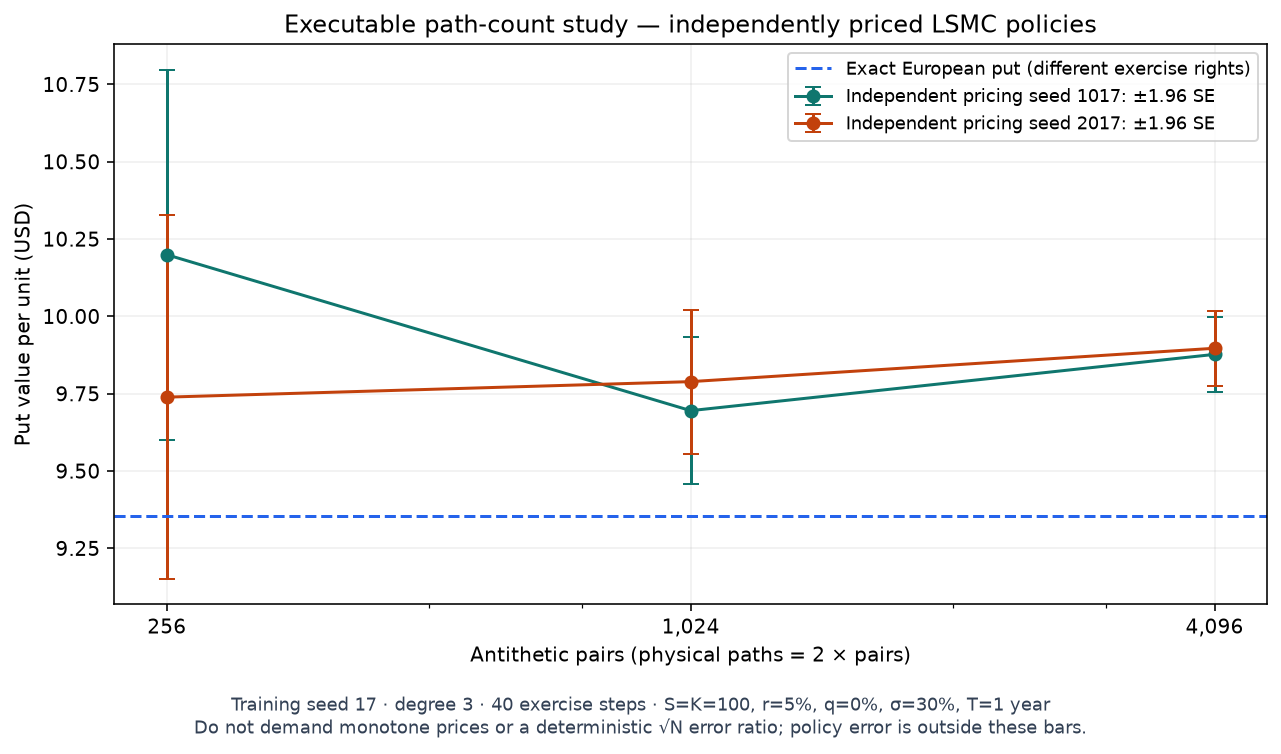
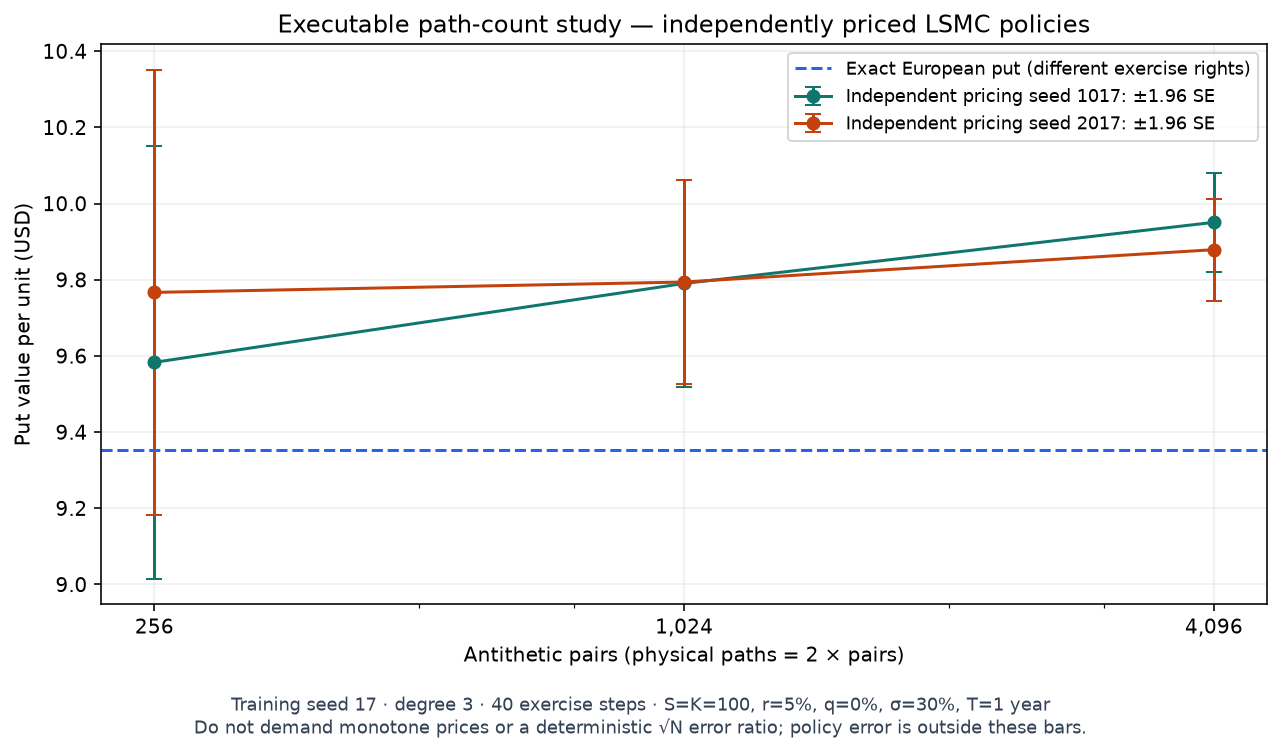
notebooks: verify capstone losses across credit and exposure knots

diff --git a/finstack-quant-py/examples/notebooks/09_reporting/analyst-pm-report.html b/finstack-quant-py/examples/notebooks/09_reporting/analyst-pm-report.html
@@ -58,141 +58,7 @@
 .fq-ts svg .fq-mk { fill:#7c2230; stroke:#fff; stroke-width:1; pointer-events:none; }
 .fq-ts .fq-scroll { max-height:240px; overflow:auto; border:1px solid #e4e1d8; border-radius:4px; }
 .fq-ts .fq-scroll table.dd th { position:sticky; top:0; background:#f3f1ea; }
-</style></head><body style="margin:0;padding:24px;background:#e8e9ec;"><div class="fq-ts"><div class="head"><div><div class="eyebrow"></div><div class="title">Analyst common book</div><div class="subtitle">Teaching fixture; no CLO sleeve in this common book</div></div><div class="meta">Generated 15 Jan 2025</div></div><div class="kpis"><div class="kpi"><div class="lbl">Native common-book PV</div><div class="val ">5,652,697.53 USD</div></div><div class="kpi"><div class="lbl">Positions</div><div class="val ">8</div></div></div><div class="secttl">Decision and conditions</div><p>Hold pending confirmation of the private loan's executable liquidity. Size any hedge from qualified curve and credit sensitivities; positive bump P&amp;L sets the sign.</p><div class="secttl">Holdings and currency reconciliation</div><table border="1" class="dataframe">
-  <thead>
-    <tr style="text-align: right;">
-      <th>position</th>
-      <th>currency</th>
-      <th>native_amount</th>
-      <th>base_usd</th>
-    </tr>
-  </thead>
-  <tbody>
-    <tr>
-      <td>USD-CORP</td>
-      <td>USD</td>
-      <td>2086985.5344727365</td>
-      <td>2086985.5344727365</td>
-    </tr>
-    <tr>
-      <td>EUR-GOVT</td>
-      <td>EUR</td>
-      <td>1498487.425661905</td>
-      <td>1618366.4197148574</td>
-    </tr>
-    <tr>
-      <td>USD-CASH</td>
-      <td>USD</td>
-      <td>498575.3258739206</td>
-      <td>498575.3258739206</td>
-    </tr>
-    <tr>
-      <td>EUR-CASH</td>
-      <td>EUR</td>
-      <td>250009.9438097844</td>
-      <td>270010.7393145672</td>
-    </tr>
-    <tr>
-      <td>USD-PAYER-IRS</td>
-      <td>USD</td>
-      <td>18768.848700303643</td>
-      <td>18768.848700303643</td>
-    </tr>
-    <tr>
-      <td>SPX-CALL</td>
-      <td>USD</td>
-      <td>47532.657464512435</td>
-      <td>47532.657464512435</td>
-    </tr>
-    <tr>
-      <td>ACME-CDS</td>
-      <td>USD</td>
-      <td>14687.355060947135</td>
-      <td>14687.355060947135</td>
-    </tr>
-    <tr>
-      <td>BORROWER-TL</td>
-      <td>USD</td>
-      <td>1097770.6529690907</td>
-      <td>1097770.6529690907</td>
-    </tr>
-  </tbody>
-</table><div class="secttl">Credit risk by qualified key</div><table border="1" class="dataframe">
-  <thead>
-    <tr style="text-align: right;">
-      <th>key</th>
-      <th>USD per bp</th>
-    </tr>
-  </thead>
-  <tbody>
-    <tr>
-      <td>cs01::USD-CORP</td>
-      <td>{'metric_id': 'cs01::USD-CORP', 'total': -909.1626600960735, 'by_entity': {'FUND': -909.1626600960735}}</td>
-    </tr>
-    <tr>
-      <td>cs01::EUR-GOVT</td>
-      <td>{'metric_id': 'cs01::EUR-GOVT', 'total': -740.9006803769153, 'by_entity': {'FUND': -740.9006803769153}}</td>
-    </tr>
-    <tr>
-      <td>cs01::ACME-HZD</td>
-      <td>{'metric_id': 'cs01::ACME-HZD', 'total': 418.7901321114041, 'by_entity': {'FUND': 418.7901321114041}}</td>
-    </tr>
-    <tr>
-      <td>cs01::BORROWER-TL</td>
-      <td>{'metric_id': 'cs01::BORROWER-TL', 'total': -378.6948503477033, 'by_entity': {'FUND': -378.6948503477033}}</td>
-    </tr>
-  </tbody>
-</table><div class="secttl">Liquidity evidence</div><table border="1" class="dataframe">
-  <thead>
-    <tr style="text-align: right;">
-      <th>position_id</th>
-      <th>source</th>
-      <th>daily_capacity</th>
-    </tr>
-  </thead>
-  <tbody>
-    <tr>
-      <td>USD-CORP</td>
-      <td>synthetic OTC</td>
-      <td>0.10</td>
-    </tr>
-    <tr>
-      <td>EUR-GOVT</td>
-      <td>synthetic OTC</td>
-      <td>1.00</td>
-    </tr>
-    <tr>
-      <td>USD-CASH</td>
-      <td>cash deposit; contractual maturity</td>
-      <td>NaN</td>
-    </tr>
-    <tr>
-      <td>EUR-CASH</td>
-      <td>cash deposit; contractual maturity</td>
-      <td>NaN</td>
-    </tr>
-    <tr>
-      <td>USD-PAYER-IRS</td>
-      <td>synthetic OTC</td>
-      <td>0.25</td>
-    </tr>
-    <tr>
-      <td>SPX-CALL</td>
-      <td>synthetic option position capacity</td>
-      <td>0.50</td>
-    </tr>
-    <tr>
-      <td>ACME-CDS</td>
-      <td>synthetic OTC</td>
-      <td>0.20</td>
-    </tr>
-    <tr>
-      <td>BORROWER-TL</td>
-      <td>unavailable capacity; no quote</td>
-      <td>NaN</td>
-    </tr>
-  </tbody>
-</table><div class="foot"><span></span><span>finstack-quant</span></div><div class="fq-tip" aria-hidden="true"></div></div><script>
+</style></head><body style="margin:0;padding:24px;background:#e8e9ec;"><div class="fq-ts"><div class="head"><div><div class="eyebrow"></div><div class="title">Analyst common book</div><div class="subtitle">Teaching fixture; no CLO sleeve in this common book</div></div><div class="meta">Generated 15 Jan 2025</div></div><div class="kpis"><div class="kpi"><div class="lbl">Native common-book PV</div><div class="val ">5,652,697.53 USD</div></div><div class="kpi"><div class="lbl">Positions</div><div class="val ">8</div></div></div><div class="secttl">Decision and conditions</div><p>Hold pending confirmation of the private loan's executable liquidity. Size any hedge from qualified curve and credit sensitivities; positive bump P&amp;L sets the sign.</p><div class="secttl">Holdings and currency reconciliation</div><table class="dd"><thead><tr><th>position</th><th>currency</th><th>native_amount</th><th>base_usd</th></tr></thead><tbody><tr><td class="">USD-CORP</td><td class="">USD</td><td class="">2086985.5344727365</td><td class="">2086985.5344727365</td></tr><tr><td class="">EUR-GOVT</td><td class="">EUR</td><td class="">1498487.425661905</td><td class="">1618366.4197148574</td></tr><tr><td class="">USD-CASH</td><td class="">USD</td><td class="">498575.3258739206</td><td class="">498575.3258739206</td></tr><tr><td class="">EUR-CASH</td><td class="">EUR</td><td class="">250009.9438097844</td><td class="">270010.7393145672</td></tr><tr><td class="">USD-PAYER-IRS</td><td class="">USD</td><td class="">18768.848700303643</td><td class="">18768.848700303643</td></tr><tr><td class="">SPX-CALL</td><td class="">USD</td><td class="">47532.657464512435</td><td class="">47532.657464512435</td></tr><tr><td class="">ACME-CDS</td><td class="">USD</td><td class="">14687.355060947135</td><td class="">14687.355060947135</td></tr><tr><td class="">BORROWER-TL</td><td class="">USD</td><td class="">1097770.6529690907</td><td class="">1097770.6529690907</td></tr></tbody></table><div class="secttl">Credit risk by qualified key</div><table class="dd"><thead><tr><th>key</th><th>USD per bp</th></tr></thead><tbody><tr><td class="">cs01::USD-CORP</td><td class="">{&#x27;metric_id&#x27;: &#x27;cs01::USD-CORP&#x27;, &#x27;total&#x27;: -909.1626600960735, &#x27;by_entity&#x27;: {&#x27;FUND&#x27;: -909.1626600960735}}</td></tr><tr><td class="">cs01::EUR-GOVT</td><td class="">{&#x27;metric_id&#x27;: &#x27;cs01::EUR-GOVT&#x27;, &#x27;total&#x27;: -740.9006803769153, &#x27;by_entity&#x27;: {&#x27;FUND&#x27;: -740.9006803769153}}</td></tr><tr><td class="">cs01::ACME-HZD</td><td class="">{&#x27;metric_id&#x27;: &#x27;cs01::ACME-HZD&#x27;, &#x27;total&#x27;: 418.7901321114041, &#x27;by_entity&#x27;: {&#x27;FUND&#x27;: 418.7901321114041}}</td></tr><tr><td class="">cs01::BORROWER-TL</td><td class="">{&#x27;metric_id&#x27;: &#x27;cs01::BORROWER-TL&#x27;, &#x27;total&#x27;: -378.6948503477033, &#x27;by_entity&#x27;: {&#x27;FUND&#x27;: -378.6948503477033}}</td></tr></tbody></table><div class="secttl">Liquidity evidence</div><table class="dd"><thead><tr><th>position_id</th><th>source</th><th>daily_capacity</th></tr></thead><tbody><tr><td class="">USD-CORP</td><td class="">synthetic OTC</td><td class="">0.1</td></tr><tr><td class="">EUR-GOVT</td><td class="">synthetic OTC</td><td class="">1.0</td></tr><tr><td class="">USD-CASH</td><td class="">cash deposit; contractual maturity</td><td class="">nan</td></tr><tr><td class="">EUR-CASH</td><td class="">cash deposit; contractual maturity</td><td class="">nan</td></tr><tr><td class="">USD-PAYER-IRS</td><td class="">synthetic OTC</td><td class="">0.25</td></tr><tr><td class="">SPX-CALL</td><td class="">synthetic option position capacity</td><td class="">0.5</td></tr><tr><td class="">ACME-CDS</td><td class="">synthetic OTC</td><td class="">0.2</td></tr><tr><td class="">BORROWER-TL</td><td class="">unavailable capacity; no quote</td><td class="">nan</td></tr></tbody></table><div class="foot"><span></span><span>finstack-quant</span></div><div class="fq-tip" aria-hidden="true"></div></div><script>
 (function(){
   function init(){
     document.querySelectorAll('.fq-ts svg .fq-hb').forEach(function(band){

diff --git a/finstack-quant-py/examples/notebooks/08_capstone/credit_capstone_tearsheet.html b/finstack-quant-py/examples/notebooks/08_capstone/credit_capstone_tearsheet.html
@@ -2093,8 +2093,8 @@
       <td>0.55</td>
       <td>1000000.0</td>
       <td>0.075</td>
-      <td>43116.580198</td>
-      <td>43116.580198</td>
+      <td>42831.925897</td>
+      <td>42831.925897</td>
     </tr>
   </tbody>
 </table><div class="secttl">Dated wealth</div><table border="1" class="dataframe">

diff --git a/finstack-quant-py/examples/notebooks/08_capstone/vol_capstone_tearsheet.html b/finstack-quant-py/examples/notebooks/08_capstone/vol_capstone_tearsheet.html
@@ -1697,8 +1697,8 @@
       <td>0.55</td>
       <td>1000000.0</td>
       <td>0.075</td>
-      <td>43116.580198</td>
-      <td>43116.580198</td>
+      <td>42831.925897</td>
+      <td>42831.925897</td>
     </tr>
   </tbody>
 </table><div class="secttl">Dated wealth</div><table border="1" class="dataframe">
